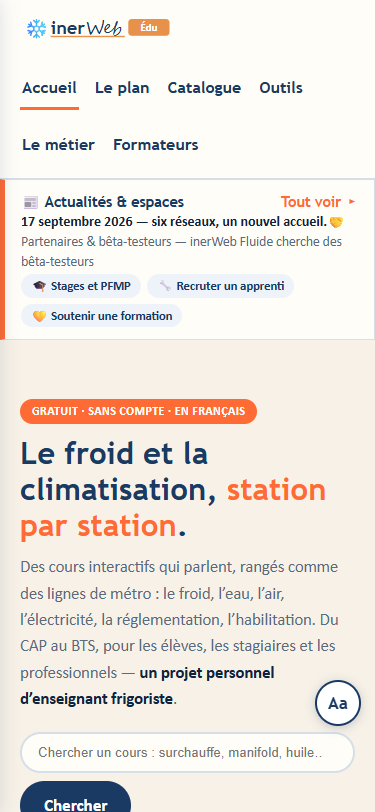
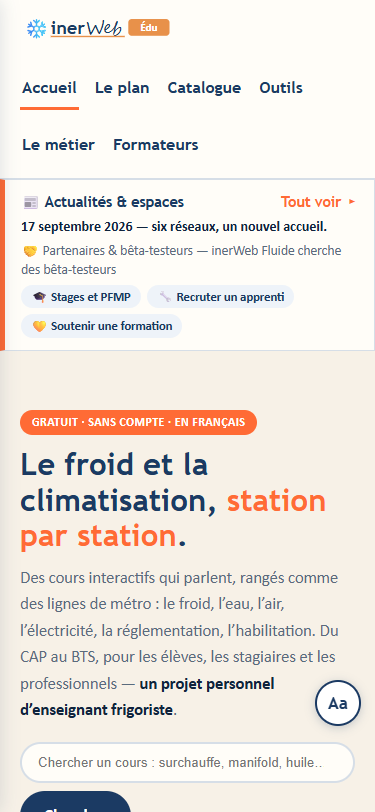
Accueil : les lignes de l'aperçu du volet en bloc (un bouton n'applique pas toujours flex)

diff --git a/relecture.html b/relecture.html
@@ -31,7 +31,7 @@
   .manque .tire { color:#c0392b; font-weight:700; }
   ol.choix { margin:6px 0; padding-left: 24px; }
   @media print { .carte { border-color:#aaa; } body { font-size: 12.5px; } }
-</style><link rel='stylesheet' href='moteur/impression.css?v=56a0099558' media='print'></head><body>
+</style><link rel='stylesheet' href='moteur/impression.css?v=e48a68681b' media='print'></head><body>
 <h1>Relecture « bon à tirer » — pack habilitation fluides</h1>
 <p class="meta">Généré le 25/07/2026 depuis le pack publié (82 cartes, 269 questions).
 Pour chaque élément : ✅ = validé · ✏ = à corriger (noter la correction en marge).
@@ -41,4 +41,4 @@ Les réponses correctes sont <span class="bonne">en vert gras</span>. Les notes 
   utile au métier — mais il ne sera pas évalué à l'examen. <b>Trois options par question : la garder telle quelle
   (culture métier), la retirer de la banque, ou la rattacher à un code que vous jugez légitime.</b></p><div class="q"><span class="verif">☐ garder &nbsp; ☐ retirer &nbsp; ☐ rattacher à : ……………</span>❓ Que signifie HFC ? <span class="meta">(q-g1-31 — rangée en G1)</span><ol class="choix"><li class="bonne">Hydro-Fluoro-Carbone</li><li class="">Haute-Fluoro-Compression</li><li class="">Hydro-Fluide-Climatique</li><li class="">Hydro-Frigorigène-Commercial</li></ol></div><div class="q"><span class="verif">☐ garder &nbsp; ☐ retirer &nbsp; ☐ rattacher à : ……………</span>❓ Dans la nomenclature R134a, que signifie le 'a' ? <span class="meta">(q-g1-33 — rangée en G1)</span><ol class="choix"><li class="">Une amélioration</li><li class="bonne">Un isomère</li><li class="">Un azéotrope</li><li class="">Un additif</li></ol></div><div class="q"><span class="verif">☐ garder &nbsp; ☐ retirer &nbsp; ☐ rattacher à : ……………</span>❓ Quelle est la composition du R410A ? <span class="meta">(q-g1-36 — rangée en G1)</span><ol class="choix"><li class="bonne">50% R32 / 50% R125</li><li class="">45% R32 / 55% R125</li><li class="">75% R134a / 25% R32</li><li class="">100% R32 pur</li></ol></div><div class="q"><span class="verif">☐ garder &nbsp; ☐ retirer &nbsp; ☐ rattacher à : ……………</span>❓ Le R22 appartient à quelle famille ? <span class="meta">(q-g1-41 — rangée en G1)</span><ol class="choix"><li class="">CFC</li><li class="bonne">HCFC</li><li class="">HFC</li><li class="">HFO</li></ol></div><div class="q"><span class="verif">☐ garder &nbsp; ☐ retirer &nbsp; ☐ rattacher à : ……………</span>❓ Le R407C est composé de : <span class="meta">(q-g1-51 — rangée en G1)</span><ol class="choix"><li class="bonne">R32 / R125 / R134a</li><li class="">R32 / R125</li><li class="">R125 / R143a / R134a</li><li class="">100% R32</li></ol></div><div class="q"><span class="verif">☐ garder &nbsp; ☐ retirer &nbsp; ☐ rattacher à : ……………</span>❓ Dans la nomenclature Rxyz, le chiffre des dizaines (y) correspond à : <span class="meta">(q-g1-v6_031 — rangée en G1)</span><ol class="choix"><li class="">Le nombre d'atomes de carbone moins 1</li><li class="bonne">Nombre d'atomes d'hydrogène + 1</li><li class="">Le nombre total d'atomes de fluor</li><li class="">Le nombre d'atomes de chlore</li></ol></div><div class="q"><span class="verif">☐ garder &nbsp; ☐ retirer &nbsp; ☐ rattacher à : ……………</span>❓ Le R410A est un mélange de : <span class="meta">(q-g1-v6_132 — rangée en G1)</span><ol class="choix"><li class="">R134a + R125</li><li class="bonne">R32 + R125</li><li class="">R32 + R134a</li><li class="">R290 + R600a</li></ol></div><div class="q"><span class="verif">☐ garder &nbsp; ☐ retirer &nbsp; ☐ rattacher à : ……………</span>❓ Le R12 est un : <span class="meta">(q-g1-v6_137 — rangée en G1)</span><ol class="choix"><li class="">HFC</li><li class="">HCFC</li><li class="bonne">CFC</li><li class="">HFO</li></ol></div><div class="q"><span class="verif">☐ garder &nbsp; ☐ retirer &nbsp; ☐ rattacher à : ……………</span>❓ Le cintrage d'un tube cuivre frigorifique doit se faire : <span class="meta">(q-g10-87 — rangée en G10)</span><ol class="choix"><li class="bonne">À froid avec cintreuse</li><li class="">À chaud avec chalumeau</li><li class="">À la main sans outil</li><li class="">Les deux premières méthodes</li></ol></div><div class="q"><span class="verif">☐ garder &nbsp; ☐ retirer &nbsp; ☐ rattacher à : ……………</span>❓ Le surfaçage des collets (dudgeonnage) doit être réalisé avec : <span class="meta">(q-g10-84 — rangée en G10)</span><ol class="choix"><li class="">N'importe quel outil</li><li class="bonne">Une dudgeonnière calibrée</li><li class="">Un marteau et un burin</li><li class="">Une pince multiprise</li></ol></div><div class="q"><span class="verif">☐ garder &nbsp; ☐ retirer &nbsp; ☐ rattacher à : ……………</span>❓ Lors du raccordement d'un flexible sur une vanne Schrader, il faut d'abord : <span class="meta">(q-g10-v6_157 — rangée en G10)</span><ol class="choix"><li class="">Serrer le raccord à fond</li><li class="bonne">Purger l'air du flexible</li><li class="">Ouvrir la vanne en grand</li><li class="">Tirer au vide le flexible</li></ol></div><div class="q"><span class="verif">☐ garder &nbsp; ☐ retirer &nbsp; ☐ rattacher à : ……………</span>❓ L'ammoniac (R717) est classé : <span class="meta">(q-g13-v6_090 — rangée en G13)</span><ol class="choix"><li class="">A1 (non toxique, non inflammable)</li><li class="">A2L (légèrement inflammable)</li><li class="bonne">B2L (toxique, légèrement inflammable)</li><li class="">B3 (toxique, très inflammable)</li></ol></div><div class="q"><span class="verif">☐ garder &nbsp; ☐ retirer &nbsp; ☐ rattacher à : ……………</span>❓ L'ammoniac est principalement utilisé dans : <span class="meta">(q-g13-v6_094 — rangée en G13)</span><ol class="choix"><li class="">La climatisation résidentielle et le petit tertiaire</li><li class="bonne">Le froid industriel (entrepôts, agroalimentaire)</li><li class="">Les véhicules frigorifiques de transport</li><li class="">Les réfrigérateurs domestiques modernes</li></ol></div><div class="q"><span class="verif">☐ garder &nbsp; ☐ retirer &nbsp; ☐ rattacher à : ……………</span>❓ L'ammoniac peut être détecté facilement par : <span class="meta">(q-g13-v6_182 — rangée en G13)</span><ol class="choix"><li class="">Sa couleur bleue, très reconnaissable à l'œil</li><li class="bonne">Son odeur très caractéristique (piquante)</li><li class="">Son goût sucré, tout à fait caractéristique</li><li class="">Sa luminescence dans l'obscurité</li></ol></div><div class="q"><span class="verif">☐ garder &nbsp; ☐ retirer &nbsp; ☐ rattacher à : ……………</span>❓ Quelle est la dernière étape avant de poser les mains sur un circuit électrique consigné ? <span class="meta">(pk-s5-1 — rangée en Sécurité)</span><ol class="choix"><li class="">Prévenir le client de la coupure prévue</li><li class="bonne">Vérifier l'absence de tension avec un VAT</li><li class="">Poser une pancarte de consignation visible</li><li class="">Ouvrir le coffret électrique concerné</li></ol></div><div class="q"><span class="verif">☐ garder &nbsp; ☐ retirer &nbsp; ☐ rattacher à : ……………</span>❓ Pourquoi contrôle-t-on le VAT sur une source connue avant ET après s'en être servi ? <span class="meta">(pk-s5-2 — rangée en Sécurité)</span><ol class="choix"><li class="">Parce que le VAT doit être étalonné chaque année en atelier par un organisme agréé</li><li class="bonne">Parce qu'un VAT en panne indiquerait « pas de tension » sur un circuit pourtant sous tension</li><li class="">Parce que la mesure n'est fiable qu'après un temps de chauffe de quelques secondes</li><li class="">Parce que la consignation n'est valable que vérifiée par deux personnes différentes</li></ol></div><div class="q"><span class="verif">☐ garder &nbsp; ☐ retirer &nbsp; ☐ rattacher à : ……………</span>❓ Une machine vient d'être mise hors tension. Que peut-il rester de dangereux dans le coffret ? <span class="meta">(pk-s5-3 — rangée en Sécurité)</span><ol class="choix"><li class="">Plus rien, la coupure suffit</li><li class="bonne">Des condensateurs encore chargés</li><li class="">Seulement de la chaleur</li><li class="">Uniquement du fluide</li></ol></div><h2>3. Les renvois « à faire valider »</h2><p class='meta'>Les endroits où le pack renvoie volontairement à la doc constructeur ou à la norme au lieu de donner un chiffre — à confirmer ou à figer avec vos valeurs terrain.</p><ul><li><b>Contrôles avant mise en service</b> <span class="meta">(g3)</span></li><li><b>Méthode directe et consignation</b> <span class="meta">(g4c)</span></li><li><b>Peser, charger, stocker, tracer</b> <span class="meta">(g5b)</span></li><li><b>Le compresseur</b> <span class="meta">(g6)</span></li><li><b>Substitution et efficacité énergétique</b> <span class="meta">(g11)</span></li><li><b>CO₂ et NH₃ — reconnaître, ne pas intervenir</b> <span class="meta">(g13)</span></li></ul><h2>4. Ce que le pack ne couvre pas encore</h2><p class="meta">Le référentiel compte 136 codes ; ce pack en traite 99.
 Un code « non traité » ne veut pas dire absent du contenu : il veut dire qu'aucune fiche ne le
-revendique, donc que personne ne peut garantir qu'il est enseigné.</p><ul><li><b>A1</b> — 94 / 94 codes couverts (100 %), complet ✅</li><li><b>A2</b> — 93 / 93 codes couverts (100 %), complet ✅</li><li><b>D</b> — 21 / 21 codes couverts (100 %), complet ✅</li><li><b>E</b> — 17 / 17 codes couverts (100 %), complet ✅</li></ul><p class="meta" style="margin-top:30px">Fin du document. Une fois annoté, renvoyez-le tel quel : chaque ✏ sera reporté dans le pack, fiche par fiche.</p><script src="moteur/lisibilite.js?v=56a0099558"></script><script src="moteur/marque.js?v=56a0099558"></script></body></html>
+revendique, donc que personne ne peut garantir qu'il est enseigné.</p><ul><li><b>A1</b> — 94 / 94 codes couverts (100 %), complet ✅</li><li><b>A2</b> — 93 / 93 codes couverts (100 %), complet ✅</li><li><b>D</b> — 21 / 21 codes couverts (100 %), complet ✅</li><li><b>E</b> — 17 / 17 codes couverts (100 %), complet ✅</li></ul><p class="meta" style="margin-top:30px">Fin du document. Une fois annoté, renvoyez-le tel quel : chaque ✏ sera reporté dans le pack, fiche par fiche.</p><script src="moteur/lisibilite.js?v=e48a68681b"></script><script src="moteur/marque.js?v=e48a68681b"></script></body></html>

diff --git a/planning.html b/planning.html
@@ -2,7 +2,7 @@
 <meta name="viewport" content="width=device-width,initial-scale=1">
 <meta name="robots" content="noindex">
 <title>Planning de formation — habilitation fluides frigorigènes</title>
-<style>:root{--bleu:#1b3a63;--org:#c9451a;--mut:#5a6b7d;--ligne:#d6dee7;--fond:#eef2f6}*{box-sizing:border-box}body{margin:0;font:16px/1.6 Calibri,Segoe UI,sans-serif;color:#1d2a38;background:var(--fond)}.wrap{max-width:960px;margin:0 auto;padding:26px 20px 60px}header{background:var(--bleu);color:#fff;padding:30px 20px}header .wrap{padding:0 20px}h1{margin:0 0 6px;font-size:28px}header p{margin:0;opacity:.85}h2{color:var(--bleu);font-size:22px;margin:36px 0 8px;border-bottom:2px solid var(--ligne);padding-bottom:6px}h3{color:var(--bleu);font-size:18px;margin:26px 0 6px}.chapo{color:var(--mut);margin:0 0 16px}table{width:100%;border-collapse:collapse;background:#fff;border:1px solid var(--ligne);margin:10px 0 18px;font-size:15px}th,td{padding:8px 10px;border-bottom:1px solid var(--ligne);text-align:left}th{background:#f4f7fa;color:var(--bleu);font-size:13.5px;text-transform:uppercase;letter-spacing:.03em}td.n,th.n{text-align:right;white-space:nowrap}td.c,th.c{text-align:center}tr.tot td{font-weight:700;background:#f4f7fa;border-top:2px solid var(--bleu)}.ok{color:#1e7a4d;font-weight:700}.ko{color:var(--org);font-weight:700}.ch{display:flex;gap:14px;flex-wrap:wrap;margin:16px 0}.ch div{flex:1 1 150px;background:#fff;border:1px solid var(--ligne);border-radius:8px;padding:14px;text-align:center}.ch b{display:block;font-size:26px;color:var(--org)}.ch span{font-size:13.5px;color:var(--mut)}.reg{font-size:12.5px;padding:2px 7px;border-radius:10px;border:1px solid var(--ligne);color:var(--mut);background:#fff}.reg.plateau{border-color:#b9cbdb;background:#eef3f7;color:var(--bleu);font-weight:700}.note{background:#fff;border-left:4px solid var(--org);padding:12px 16px;margin:16px 0;font-size:15px}</style><link rel='stylesheet' href='moteur/impression.css?v=56a0099558' media='print'></head><body>
+<style>:root{--bleu:#1b3a63;--org:#c9451a;--mut:#5a6b7d;--ligne:#d6dee7;--fond:#eef2f6}*{box-sizing:border-box}body{margin:0;font:16px/1.6 Calibri,Segoe UI,sans-serif;color:#1d2a38;background:var(--fond)}.wrap{max-width:960px;margin:0 auto;padding:26px 20px 60px}header{background:var(--bleu);color:#fff;padding:30px 20px}header .wrap{padding:0 20px}h1{margin:0 0 6px;font-size:28px}header p{margin:0;opacity:.85}h2{color:var(--bleu);font-size:22px;margin:36px 0 8px;border-bottom:2px solid var(--ligne);padding-bottom:6px}h3{color:var(--bleu);font-size:18px;margin:26px 0 6px}.chapo{color:var(--mut);margin:0 0 16px}table{width:100%;border-collapse:collapse;background:#fff;border:1px solid var(--ligne);margin:10px 0 18px;font-size:15px}th,td{padding:8px 10px;border-bottom:1px solid var(--ligne);text-align:left}th{background:#f4f7fa;color:var(--bleu);font-size:13.5px;text-transform:uppercase;letter-spacing:.03em}td.n,th.n{text-align:right;white-space:nowrap}td.c,th.c{text-align:center}tr.tot td{font-weight:700;background:#f4f7fa;border-top:2px solid var(--bleu)}.ok{color:#1e7a4d;font-weight:700}.ko{color:var(--org);font-weight:700}.ch{display:flex;gap:14px;flex-wrap:wrap;margin:16px 0}.ch div{flex:1 1 150px;background:#fff;border:1px solid var(--ligne);border-radius:8px;padding:14px;text-align:center}.ch b{display:block;font-size:26px;color:var(--org)}.ch span{font-size:13.5px;color:var(--mut)}.reg{font-size:12.5px;padding:2px 7px;border-radius:10px;border:1px solid var(--ligne);color:var(--mut);background:#fff}.reg.plateau{border-color:#b9cbdb;background:#eef3f7;color:var(--bleu);font-weight:700}.note{background:#fff;border-left:4px solid var(--org);padding:12px 16px;margin:16px 0;font-size:15px}</style><link rel='stylesheet' href='moteur/impression.css?v=e48a68681b' media='print'></head><body>
 <header><div class="wrap"><h1>Planning de formation — catégorie A1</h1>
 <p>Habilitation à la manipulation des fluides frigorigènes · arrêté du 21 novembre 2025</p></div></header>
 <div class="wrap">
@@ -124,6 +124,6 @@
 <tr><td class='c'>M8</td><td class='c'><span class='reg plateau'>plateau</span></td><td class='n'>25 min</td><td><b>Remédiation individuelle et positionnement 0-4 sur les compétences non acquises</b></td></tr>
 </table>
 <p class="chapo" style="margin-top:30px">Le détail de chaque séquence de salle — diapositives, questions posées, notes d'animation — se projette depuis le support de salle. Les compétences visées et leur libellé officiel figurent sur chaque fiche du stagiaire.</p>
-<script src="moteur/lisibilite.js?v=56a0099558"></script>
-<script src="moteur/marque.js?v=56a0099558" data-cartouche="Pilote" data-licence="cc-by-nc-nd"></script>
+<script src="moteur/lisibilite.js?v=e48a68681b"></script>
+<script src="moteur/marque.js?v=e48a68681b" data-cartouche="Pilote" data-licence="cc-by-nc-nd"></script>
 </div></body></html>

diff --git a/formation.html b/formation.html
@@ -47,8 +47,8 @@
   <meta property="og:url" content="https://inerweb.fr/formation.html">
   <meta property="og:image" content="https://inerweb.fr/icones/og-inerweb-1200x630.png">
   <meta name="twitter:card" content="summary_large_image">
-  <link rel="stylesheet" href="moteur/charte-edu.css?v=56a0099558">
-  <link rel="stylesheet" href="moteur/impression.css?v=56a0099558" media="print">
+  <link rel="stylesheet" href="moteur/charte-edu.css?v=e48a68681b">
+  <link rel="stylesheet" href="moteur/impression.css?v=e48a68681b" media="print">
 </head>
 <body>
   <noscript>
@@ -68,26 +68,26 @@
   <div id="app"></div>
   <!-- Côté ÉLÈVE : BUILD ÉLÈVE, sans la couche pilote.
        Régénéré par `node build/build.mjs` après chaque modification du pack. -->
-  <script src="packs/fluides/pack.eleve.js?v=56a0099558"></script>
+  <script src="packs/fluides/pack.eleve.js?v=e48a68681b"></script>
   <!-- Config optionnelle (scoring serveur, phase 2) -->
-  <script src="config.js?v=56a0099558"></script>
+  <script src="config.js?v=e48a68681b"></script>
   <!-- Habillage sonore des planches animées : la table du pack, puis le
        mécanisme. Coupé par défaut, aucun son chargé tant qu'on ne le joue
        pas. Les deux fichiers sont facultatifs : sans eux, le moteur
        fonctionne à l'identique, en silence. -->
-  <script src="packs/fluides/sons.js?v=56a0099558"></script>
-  <script src="moteur/sons.js?v=56a0099558"></script>
+  <script src="packs/fluides/sons.js?v=e48a68681b"></script>
+  <script src="moteur/sons.js?v=e48a68681b"></script>
   <!-- Lecture à voix haute d'une fiche, à la demande : aide FLE/DYS.
        Facultatif, ne casse rien si absent. -->
   <script src="moteur/voix-index.js?v=20260806-1"></script>
   <script src="moteur/prononciation.js?v=20260806-1"></script>
   <script src="moteur/voix.js?v=20260806-1"></script>
-  <script src="moteur/lecture.js?v=56a0099558"></script>
+  <script src="moteur/lecture.js?v=e48a68681b"></script>
   <!-- Moteur générique -->
-  <script src="moteur/moteur.js?v=56a0099558"></script>
+  <script src="moteur/moteur.js?v=e48a68681b"></script>
 <!-- Lisibilité : taille du texte + police adaptée DYS (bouton « Aa ») -->
-<script src="moteur/lisibilite.js?v=56a0099558"></script>
-<script src="moteur/marque.js?v=56a0099558" data-cartouche="Pilote" data-licence="cc-by-nc-nd"></script>
+<script src="moteur/lisibilite.js?v=e48a68681b"></script>
+<script src="moteur/marque.js?v=e48a68681b" data-cartouche="Pilote" data-licence="cc-by-nc-nd"></script>
 <script>
   // Consultation hors-ligne + raccourci d'écran d'accueil : voir sw.js.
   // Le catch : certains navigateurs (vie privée renforcée, webviews)

diff --git a/projection.html b/projection.html
@@ -320,7 +320,7 @@ h2.dia{font-family:var(--police-titre);font-size:var(--t-h2);line-height:1.18;co
   .visuel{display:none}
 }
 </style>
-  <link rel="stylesheet" href="moteur/impression.css?v=56a0099558" media="print">
+  <link rel="stylesheet" href="moteur/impression.css?v=e48a68681b" media="print">
 </head>
 <body>
 <div id="som" class="som"></div>
@@ -355,15 +355,15 @@ h2.dia{font-family:var(--police-titre);font-size:var(--t-h2);line-height:1.18;co
 
 <!-- Quelle image sur quel écran : la règle est isolée dans son fichier,
      elle servira aussi aux autres faces du pack. -->
-<script src="moteur/illustration.js?v=56a0099558"></script>
+<script src="moteur/illustration.js?v=e48a68681b"></script>
 
 <!-- ACCÈS ENSEIGNANT EXIGÉ (27/08) : le support de salle est une page
      formateur. Le pack de projection ne se charge qu'après validation. Ce
      n'est plus le code court partagé du 25/07 : le portillon est devenu
      nominatif (voir l'en-tête de `moteur/portillon.js`). `acces.js` passe
      AVANT le portillon : c'est lui qui juge. -->
-<script src="moteur/acces.js?v=56a0099558"></script>
-<script src="moteur/portillon.js?v=56a0099558"></script>
+<script src="moteur/acces.js?v=e48a68681b"></script>
+<script src="moteur/portillon.js?v=e48a68681b"></script>
 <script>
 function demarrerProjection(){
   "use strict";
@@ -750,10 +750,10 @@ function demarrerProjection(){
 
   renderSommaire();
 }
-Portillon.exiger("Support de projection", ["packs/fluides/projection.gen.js?v=56a0099558"], demarrerProjection);
+Portillon.exiger("Support de projection", ["packs/fluides/projection.gen.js?v=e48a68681b"], demarrerProjection);
 </script>
 <!-- Lisibilité : taille du texte + police adaptée DYS (bouton « Aa ») -->
-<script src="moteur/lisibilite.js?v=56a0099558"></script>
-<script src="moteur/marque.js?v=56a0099558" data-cartouche="Pilote" data-licence="cc-by-nc-nd"></script>
+<script src="moteur/lisibilite.js?v=e48a68681b"></script>
+<script src="moteur/marque.js?v=e48a68681b" data-cartouche="Pilote" data-licence="cc-by-nc-nd"></script>
 </body>
 </html>

diff --git a/formateur.html b/formateur.html
@@ -5,8 +5,8 @@
   <meta name="viewport" content="width=device-width, initial-scale=1">
   <title>Console formateur — Habilitation fluides frigorigènes</title>
   <meta name="robots" content="noindex, nofollow">
-  <link rel="stylesheet" href="moteur/charte-edu.css?v=56a0099558">
-  <link rel="stylesheet" href="moteur/impression.css?v=56a0099558" media="print">
+  <link rel="stylesheet" href="moteur/charte-edu.css?v=e48a68681b">
+  <link rel="stylesheet" href="moteur/impression.css?v=e48a68681b" media="print">
 </head>
 <body>
   <div id="app"></div>
@@ -21,17 +21,17 @@
        accès nominatif. Voir l'en-tête de `moteur/portillon.js` et REPRISE § 4.
        `acces.js` passe AVANT le portillon : c'est lui qui juge. -->
   <script>window.PILOTE_MODE = "pilotage";</script>
-  <script src="moteur/acces.js?v=56a0099558"></script>
-  <script src="moteur/portillon.js?v=56a0099558"></script>
+  <script src="moteur/acces.js?v=e48a68681b"></script>
+  <script src="moteur/portillon.js?v=e48a68681b"></script>
   <script>
     Portillon.exiger("Console formateur", [
-      "packs/fluides/pack.pilote.js?v=56a0099558",
-      "config.js?v=56a0099558",
-      "moteur/moteur.js?v=56a0099558"
+      "packs/fluides/pack.pilote.js?v=e48a68681b",
+      "config.js?v=e48a68681b",
+      "moteur/moteur.js?v=e48a68681b"
     ]);
   </script>
 <!-- Lisibilité : taille du texte + police adaptée DYS (bouton « Aa ») -->
-<script src="moteur/lisibilite.js?v=56a0099558"></script>
-<script src="moteur/marque.js?v=56a0099558" data-cartouche="Pilote" data-licence="cc-by-nc-nd"></script>
+<script src="moteur/lisibilite.js?v=e48a68681b"></script>
+<script src="moteur/marque.js?v=e48a68681b" data-cartouche="Pilote" data-licence="cc-by-nc-nd"></script>
 </body>
 </html>

diff --git a/index.html b/index.html
@@ -409,6 +409,9 @@
                             color:var(--txt); border:1px solid var(--ligne); border-left:5px solid var(--orange);
                             font-weight:normal; font-size:14px; line-height:1.4; cursor:pointer; }
     .volet-poignee.apercu:hover { background:var(--carte); }
+    .volet-poignee.apercu > span { display:block; margin-top:5px; } /* un <button> ignore parfois flex : chaque ligne en bloc */
+    .volet-poignee.apercu > .ap-tete { display:flex; margin-top:0; }
+    .volet-poignee.apercu > .ap-puces { display:flex; }
     .ap-tete { display:flex; justify-content:space-between; align-items:baseline; gap:10px;
                font-family:var(--titre); font-weight:bold; font-size:14.5px; color:var(--bleu); }
     .ap-tout { color:var(--orange); white-space:nowrap; }
@@ -1199,11 +1202,11 @@
 
 
 <!-- Lisibilité : taille du texte + police adaptée DYS (bouton « Aa »). -->
-<script src="moteur/lisibilite.js?v=56a0099558"></script>
-<script src="chiffres.gen.js?v=56a0099558"></script>
+<script src="moteur/lisibilite.js?v=e48a68681b"></script>
+<script src="chiffres.gen.js?v=e48a68681b"></script>
 <!-- Le pied de page (logo + mention de droits) est posé par marque.js, jamais
      écrit à la main : une page qui circule seule doit porter sa licence. -->
-<script src="moteur/marque.js?v=56a0099558" data-cartouche="Édu" data-licence="cc-by-nc-nd"></script>
+<script src="moteur/marque.js?v=e48a68681b" data-cartouche="Édu" data-licence="cc-by-nc-nd"></script>
 <script>
   // Consultation hors-ligne + raccourci d'écran d'accueil : voir sw.js.
   // Le catch : certains navigateurs (vie privée renforcée, webviews)

diff --git a/plan.html b/plan.html
@@ -747,8 +747,8 @@
 
 <!-- Les descriptions des stations, relevées des cours par le build
      (build/registre.mjs) — jamais saisies ici. Voir la vue de ligne. -->
-<script src="plan-descriptions.gen.js?v=56a0099558"></script>
-<script src="moteur/plan-donnees.js?v=56a0099558"></script>
+<script src="plan-descriptions.gen.js?v=e48a68681b"></script>
+<script src="moteur/plan-donnees.js?v=e48a68681b"></script>
 <script>
 /* =====================================================================
    LE PLAN DE FORMATION — généré depuis les données de moteur/plan-donnees.js.
@@ -1530,11 +1530,11 @@
 </script>
 
 <!-- Lisibilité : taille du texte + police adaptée DYS (bouton « Aa »). -->
-<script src="moteur/lisibilite.js?v=56a0099558"></script>
-<script src="chiffres.gen.js?v=56a0099558"></script>
+<script src="moteur/lisibilite.js?v=e48a68681b"></script>
+<script src="chiffres.gen.js?v=e48a68681b"></script>
 <!-- Le pied de page (logo + mention de droits) est posé par marque.js, jamais
      écrit à la main : une page qui circule seule doit porter sa licence. -->
-<script src="moteur/marque.js?v=56a0099558" data-cartouche="Édu" data-licence="cc-by-nc-nd"></script>
+<script src="moteur/marque.js?v=e48a68681b" data-cartouche="Édu" data-licence="cc-by-nc-nd"></script>
 <script>
   // Consultation hors-ligne + raccourci d'écran d'accueil : voir sw.js.
   // Le catch : certains navigateurs (vie privée renforcée, webviews)

diff --git a/dossier.html b/dossier.html
@@ -101,7 +101,7 @@
   footer a{color:#ffd9c9}
   footer .fin{opacity:.72;font-size:14px;margin-top:14px}
 </style>
-  <link rel="stylesheet" href="moteur/impression.css?v=56a0099558" media="print">
+  <link rel="stylesheet" href="moteur/impression.css?v=e48a68681b" media="print">
 </head>
 <body>
 
@@ -373,9 +373,9 @@
      injectés dans les <span data-ch>. Ils étaient écrits à la main jusqu'au
      27/07 et avaient dérivé — un dossier de direction qui affiche des chiffres
      faux perd sa valeur entière, y compris pour ce qui est juste. -->
-<script src="chiffres.gen.js?v=56a0099558"></script>
+<script src="chiffres.gen.js?v=e48a68681b"></script>
 <!-- Lisibilité : taille du texte + police adaptée DYS (bouton « Aa ») -->
-<script src="moteur/lisibilite.js?v=56a0099558"></script>
-<script src="moteur/marque.js?v=56a0099558" data-cartouche="Pilote" data-licence="cc-by-nc-nd"></script>
+<script src="moteur/lisibilite.js?v=e48a68681b"></script>
+<script src="moteur/marque.js?v=e48a68681b" data-cartouche="Pilote" data-licence="cc-by-nc-nd"></script>
 </body>
 </html>

diff --git a/documents.html b/documents.html
@@ -111,7 +111,7 @@
   .tableau-large { overflow-x: auto; }
   footer { color: var(--mut); font-size: .9em; margin-top: 3em; }
 </style>
-  <link rel="stylesheet" href="moteur/impression.css?v=56a0099558" media="print">
+  <link rel="stylesheet" href="moteur/impression.css?v=e48a68681b" media="print">
 </head>
 <body>
 
@@ -168,7 +168,7 @@
 </div>
 
 <!-- Le moteur d'accès enseignant : il doit être là AVANT le script de la page. -->
-<script src="moteur/acces.js?v=56a0099558"></script>
+<script src="moteur/acces.js?v=e48a68681b"></script>
 <script>
 (function () {
   "use strict";
@@ -575,7 +575,7 @@
 })();
 </script>
 <!-- Lisibilité : taille du texte + police adaptée DYS (bouton « Aa ») -->
-<script src="moteur/lisibilite.js?v=56a0099558"></script>
-<script src="moteur/marque.js?v=56a0099558" data-cartouche="Pilote" data-licence="cc-by-nc-nd"></script>
+<script src="moteur/lisibilite.js?v=e48a68681b"></script>
+<script src="moteur/marque.js?v=e48a68681b" data-cartouche="Pilote" data-licence="cc-by-nc-nd"></script>
 </body>
 </html>

diff --git a/portail.html b/portail.html
@@ -116,7 +116,7 @@
   footer a{color:#fff}
   footer .sep{opacity:.4;margin:0 8px}
 </style>
-  <link rel="stylesheet" href="moteur/impression.css?v=56a0099558" media="print">
+  <link rel="stylesheet" href="moteur/impression.css?v=e48a68681b" media="print">
 </head>
 <body>
 
@@ -441,9 +441,9 @@
 <!-- Compteurs relevés au build (build/chiffres.mjs), jamais saisis à la main :
      cette page annonçait encore 33 fiches, 206 questions et 270 diapositives
      quand il y en avait 44, 266 et 425. -->
-<script src="chiffres.gen.js?v=56a0099558"></script>
+<script src="chiffres.gen.js?v=e48a68681b"></script>
 <!-- Lisibilité : taille du texte + police adaptée DYS (bouton « Aa ») -->
-<script src="moteur/lisibilite.js?v=56a0099558"></script>
-<script src="moteur/marque.js?v=56a0099558" data-cartouche="Pilote" data-licence="cc-by-nc-nd"></script>
+<script src="moteur/lisibilite.js?v=e48a68681b"></script>
+<script src="moteur/marque.js?v=e48a68681b" data-cartouche="Pilote" data-licence="cc-by-nc-nd"></script>
 </body>
 </html>

diff --git a/matrice.html b/matrice.html
@@ -49,7 +49,7 @@
     .code { border-color:#bbb; }
     body { font-size: 12px; max-width: none; }
   }
-</style><link rel='stylesheet' href='moteur/impression.css?v=56a0099558' media='print'></head><body>
+</style><link rel='stylesheet' href='moteur/impression.css?v=e48a68681b' media='print'></head><body>
 <h1>Matrice compétences × contenu × questions</h1>
 <p class="meta">Pack habilitation fluides frigorigènes — catégories A1 · A2 · D · E ·
 arrêté du 21 novembre 2025, annexe II.B (136 compétences).
@@ -148,6 +148,6 @@ ici pour être décidées, non pour disparaître.</p><div class="boite" style="m
   filtrer();
 })();
 </script>
-<script src="moteur/lisibilite.js?v=56a0099558"></script>
-<script src="moteur/marque.js?v=56a0099558" data-cartouche="Pilote" data-licence="cc-by-nc-nd"></script>
+<script src="moteur/lisibilite.js?v=e48a68681b"></script>
+<script src="moteur/marque.js?v=e48a68681b" data-cartouche="Pilote" data-licence="cc-by-nc-nd"></script>
 </body></html>

diff --git a/charte.html b/charte.html
@@ -130,7 +130,7 @@ footer{padding:34px 0 60px;color:var(--muted);font-size:14px}
    commune moteur/impression.css, chargée ci-dessous en media="print".
    Elle doit venir APRÈS ce bloc pour l'emporter à spécificité égale. */
 </style>
-<link rel="stylesheet" href="moteur/impression.css?v=56a0099558" media="print">
+<link rel="stylesheet" href="moteur/impression.css?v=e48a68681b" media="print">
 </head>
 <body>
 
@@ -529,7 +529,7 @@ footer{padding:34px 0 60px;color:var(--muted);font-size:14px}
   des 8 expériences de <code>packs/fluides/res/</code>.
 </footer>
 
-<script src="moteur/lisibilite.js?v=56a0099558"></script>
-<script src="moteur/marque.js?v=56a0099558" data-cartouche="Pilote" data-licence="cc-by-nc-nd"></script>
+<script src="moteur/lisibilite.js?v=e48a68681b"></script>
+<script src="moteur/marque.js?v=e48a68681b" data-cartouche="Pilote" data-licence="cc-by-nc-nd"></script>
 </body>
 </html>
